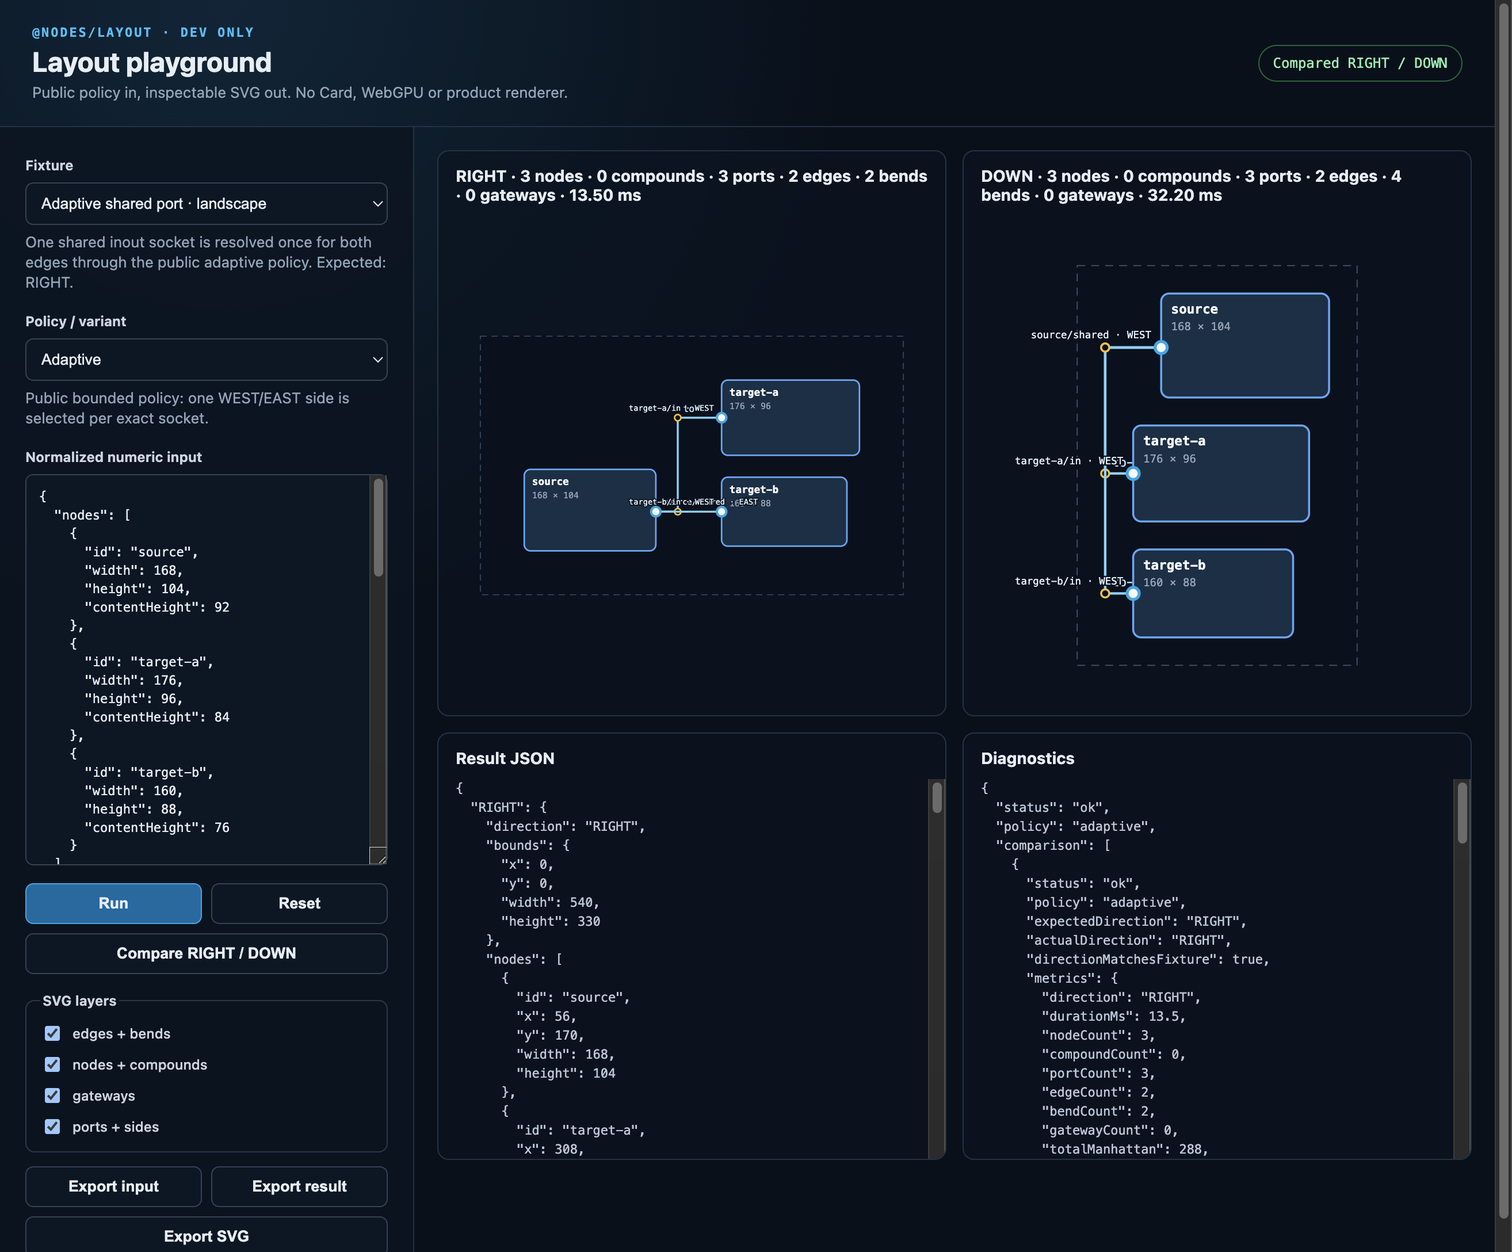
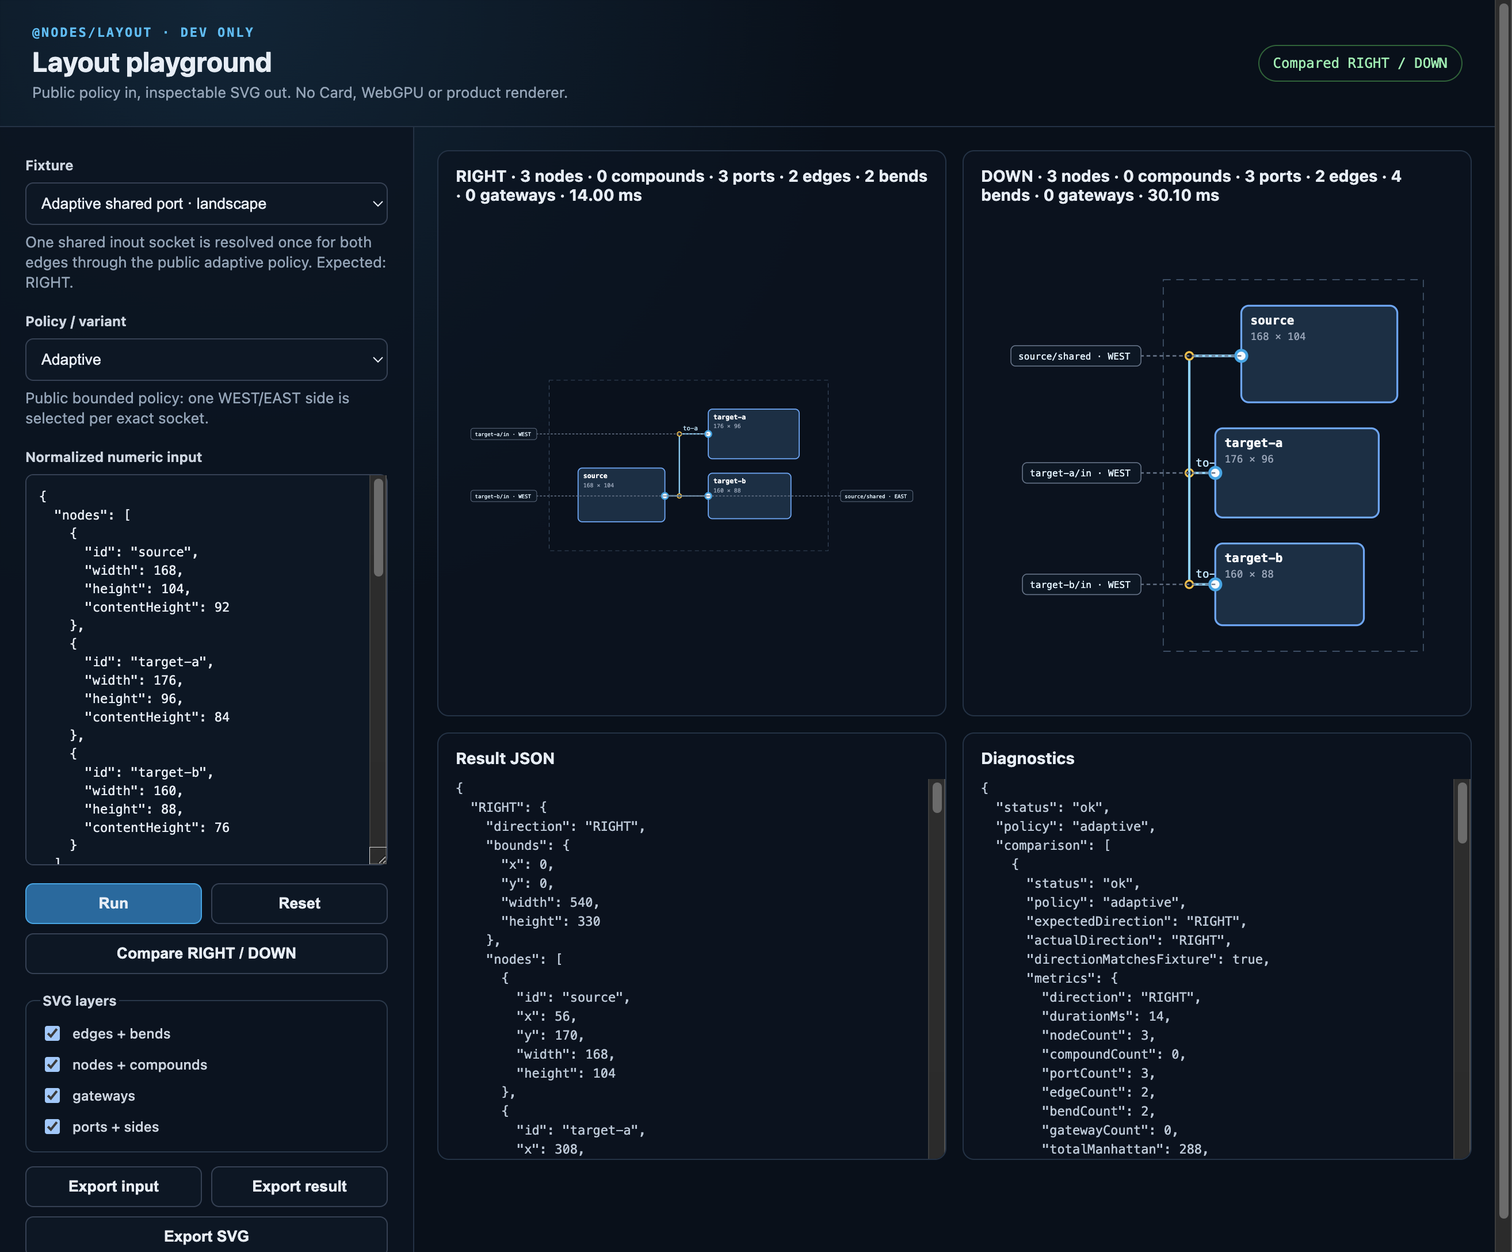
fix(nodes): make playground port labels inspectable

Changed region(s): [[0.6865, 0.2188, 0.9361, 0.5312], [0.312, 0.2812, 0.5928, 0.4688]]

diff --git a/pkg/nodes/layout/playground/svg.ts b/pkg/nodes/layout/playground/svg.ts
@@ -6,11 +6,25 @@ import type {
 
 const SVG_MARGIN = 36
 const EPSILON = 0.001
+const PORT_LABEL_CHAR_WIDTH = 6.2
+const PORT_LABEL_GAP = 6
+const PORT_LABEL_GUTTER = 24
+const PORT_LABEL_HEIGHT = 22
+const PORT_LABEL_HORIZONTAL_PADDING = 8
+const PORT_LABEL_MIN_WIDTH = 80
 
 export type PlaygroundGateway = Readonly<{
   edgeId: string
   nodeId: string
   point: LayoutPoint
+}>
+
+export type PlaygroundPortLabel = Readonly<{
+  portId: string
+  side: "WEST" | "EAST"
+  text: string
+  box: Readonly<{x: number; y: number; width: number; height: number}>
+  leader: Readonly<{startPoint: LayoutPoint; endPoint: LayoutPoint}>
 }>
 
 export function renderLayoutSvg(
@@ -29,11 +43,23 @@ export function renderLayoutSvg(
   const ports = [...result.ports].sort(compareById)
   const edges = [...result.edges].sort(compareById)
   const gateways = findGatewayPoints(graph, result)
+  const portLabels = layoutPortLabels(result)
+  const visibleBounds = portLabels.reduce((bounds, {box}) => ({
+    left: Math.min(bounds.left, box.x),
+    top: Math.min(bounds.top, box.y),
+    right: Math.max(bounds.right, box.x + box.width),
+    bottom: Math.max(bounds.bottom, box.y + box.height),
+  }), {
+    left: result.bounds.x,
+    top: result.bounds.y,
+    right: result.bounds.x + result.bounds.width,
+    bottom: result.bounds.y + result.bounds.height,
+  })
   const viewBox = [
-    result.bounds.x - SVG_MARGIN,
-    result.bounds.y - SVG_MARGIN,
-    result.bounds.width + SVG_MARGIN * 2,
-    result.bounds.height + SVG_MARGIN * 2,
+    visibleBounds.left - SVG_MARGIN,
+    visibleBounds.top - SVG_MARGIN,
+    visibleBounds.right - visibleBounds.left + SVG_MARGIN * 2,
+    visibleBounds.bottom - visibleBounds.top + SVG_MARGIN * 2,
   ].map(formatNumber).join(" ")
 
   const edgeMarkup = edges.map((edge) => {
@@ -66,16 +92,19 @@ export function renderLayoutSvg(
     `<rect class="gateway" data-edge-id="${escapeXml(gateway.edgeId)}" data-node-id="${escapeXml(gateway.nodeId)}" x="${formatNumber(gateway.point.x - 5)}" y="${formatNumber(gateway.point.y - 5)}" width="10" height="10"/>`).join("")
 
   const portMarkup = ports.map((port) => {
-    const side = port.side
-    const labelOffset = side === "WEST" ? -10 : 10
-    const anchor = side === "WEST" ? "end" : "start"
     return [
-      `<g class="port" data-port-id="${escapeXml(port.id)}" data-side="${side}">`,
+      `<g class="port" data-port-id="${escapeXml(port.id)}" data-side="${port.side}">`,
       `<circle cx="${formatNumber(port.x)}" cy="${formatNumber(port.y)}" r="6"/>`,
-      `<text x="${formatNumber(port.x + labelOffset)}" y="${formatNumber(port.y - 9)}" text-anchor="${anchor}">${escapeXml(port.id)} · ${side}</text>`,
       "</g>",
     ].join("")
   }).join("")
+  const portLabelMarkup = portLabels.map(({portId, side, text, box, leader}) => [
+    `<g class="port-label" data-kind="port-label" data-label-port-id="${escapeXml(portId)}" data-side="${side}" data-label-x="${formatNumber(box.x)}" data-label-y="${formatNumber(box.y)}" data-label-width="${formatNumber(box.width)}" data-label-height="${formatNumber(box.height)}">`,
+    `<line class="port-label-leader" x1="${formatNumber(leader.startPoint.x)}" y1="${formatNumber(leader.startPoint.y)}" x2="${formatNumber(leader.endPoint.x)}" y2="${formatNumber(leader.endPoint.y)}"/>`,
+    `<rect class="port-label-box" x="${formatNumber(box.x)}" y="${formatNumber(box.y)}" width="${formatNumber(box.width)}" height="${formatNumber(box.height)}" rx="5"/>`,
+    `<text class="port-label-text" x="${formatNumber(box.x + PORT_LABEL_HORIZONTAL_PADDING)}" y="${formatNumber(box.y + 15)}">${escapeXml(text)}</text>`,
+    "</g>",
+  ].join("")).join("")
 
   return [
     `<svg xmlns="http://www.w3.org/2000/svg" role="img" aria-label="${escapeXml(title)}" data-direction="${result.direction}" viewBox="${viewBox}">`,
@@ -83,16 +112,52 @@ export function renderLayoutSvg(
     "<defs>",
     "<marker id=\"arrow\" markerWidth=\"8\" markerHeight=\"8\" refX=\"7\" refY=\"4\" orient=\"auto\" markerUnits=\"strokeWidth\"><path d=\"M0,0 L8,4 L0,8 Z\"/></marker>",
     "<style>",
-    ".bounds{fill:#08111d;stroke:#3f566f;stroke-dasharray:8 6;stroke-width:1}.edge polyline{fill:none;stroke:#7dd3fc;stroke-width:2.5;stroke-linejoin:round;stroke-linecap:round}.edge text{fill:#bae6fd;font:12px ui-monospace,monospace;paint-order:stroke;stroke:#08111d;stroke-width:4}.bend{fill:#08111d;stroke:#fbbf24;stroke-width:2}.gateway{fill:#fb7185;stroke:#fff1f2;stroke-width:1}.node rect{stroke-width:2}.node.compound rect{fill:#162536;fill-opacity:.72;stroke:#64748b;stroke-dasharray:7 4}.node.leaf rect{fill:#172f46;stroke:#60a5fa}.node-id{fill:#f8fafc;font:600 13px ui-monospace,monospace}.node-size{fill:#94a3b8;font:11px ui-monospace,monospace}.port circle{fill:#f8fafc;stroke:#0ea5e9;stroke-width:3}.port text{fill:#e0f2fe;font:10px ui-monospace,monospace;paint-order:stroke;stroke:#08111d;stroke-width:3}",
+    ".bounds{fill:#08111d;stroke:#3f566f;stroke-dasharray:8 6;stroke-width:1}.edge polyline{fill:none;stroke:#7dd3fc;stroke-width:2.5;stroke-linejoin:round;stroke-linecap:round}.edge text{fill:#bae6fd;font:12px ui-monospace,monospace;paint-order:stroke;stroke:#08111d;stroke-width:4}.bend{fill:#08111d;stroke:#fbbf24;stroke-width:2}.gateway{fill:#fb7185;stroke:#fff1f2;stroke-width:1}.node rect{stroke-width:2}.node.compound rect{fill:#162536;fill-opacity:.72;stroke:#64748b;stroke-dasharray:7 4}.node.leaf rect{fill:#172f46;stroke:#60a5fa}.node-id{fill:#f8fafc;font:600 13px ui-monospace,monospace}.node-size{fill:#94a3b8;font:11px ui-monospace,monospace}.port circle{fill:#f8fafc;stroke:#0ea5e9;stroke-width:3}.port-label-leader{stroke:#64748b;stroke-width:1.5;stroke-dasharray:4 3}.port-label-box{fill:#0b1725;stroke:#64748b;stroke-width:1}.port-label-text{fill:#e0f2fe;font:10px ui-monospace,monospace}",
     "</style>",
     "</defs>",
     `<rect class="bounds" data-kind="layout-bounds" x="${formatNumber(result.bounds.x)}" y="${formatNumber(result.bounds.y)}" width="${formatNumber(result.bounds.width)}" height="${formatNumber(result.bounds.height)}"/>`,
     `<g data-layer="edges">${edgeMarkup}</g>`,
     `<g data-layer="nodes">${nodeMarkup}</g>`,
     `<g data-layer="gateways">${gatewayMarkup}</g>`,
-    `<g data-layer="ports">${portMarkup}</g>`,
+    `<g data-layer="ports">${portMarkup}${portLabelMarkup}</g>`,
     "</svg>",
   ].join("")
+}
+
+/** Places debug labels outside route bounds and attaches each with one straight leader. */
+export function layoutPortLabels(result: LayoutResult): readonly PlaygroundPortLabel[] {
+  return (["WEST", "EAST"] as const).flatMap((side) => {
+    const ports = result.ports
+      .filter((port) => port.side === side)
+      .sort((left, right) => left.y - right.y || compareById(left, right))
+    let nextTop = result.bounds.y
+    return ports.map((port): PlaygroundPortLabel => {
+      const text = `${port.id} · ${side}`
+      const width = Math.max(
+        PORT_LABEL_MIN_WIDTH,
+        text.length * PORT_LABEL_CHAR_WIDTH + PORT_LABEL_HORIZONTAL_PADDING * 2,
+      )
+      const y = Math.max(port.y - PORT_LABEL_HEIGHT / 2, nextTop)
+      nextTop = y + PORT_LABEL_HEIGHT + PORT_LABEL_GAP
+      const x = side === "WEST"
+        ? result.bounds.x - PORT_LABEL_GUTTER - width
+        : result.bounds.x + result.bounds.width + PORT_LABEL_GUTTER
+      const box = {x, y, width, height: PORT_LABEL_HEIGHT}
+      return {
+        portId: port.id,
+        side,
+        text,
+        box,
+        leader: {
+          startPoint: {x: port.x, y: port.y},
+          endPoint: {
+            x: side === "WEST" ? box.x + box.width : box.x,
+            y: box.y + box.height / 2,
+          },
+        },
+      }
+    })
+  })
 }
 
 export function findGatewayPoints(graph: LayoutGraph, result: LayoutResult): readonly PlaygroundGateway[] {

diff --git a/pkg/nodes/layout/playground/playground.test.ts b/pkg/nodes/layout/playground/playground.test.ts
@@ -5,6 +5,7 @@ import {fileURLToPath} from "node:url"
 import {getFixtureFamily, PLAYGROUND_FIXTURES} from "./fixtures.ts"
 import {PLAYGROUND_POLICIES} from "./policy-registry.ts"
 import {runPlaygroundLayout} from "./runner.ts"
+import {layoutPortLabels} from "./svg.ts"
 
 const playgroundRoot = fileURLToPath(new URL(".", import.meta.url))
 const layoutRoot = fileURLToPath(new URL("..", import.meta.url))
@@ -14,13 +15,13 @@ const BASELINES = {
     direction: "RIGHT",
     bounds: {x: 0, y: 0, width: 632, height: 446},
[3 lines of base64/hex data omitted]
   },
   "fixed-baseline-down": {
     direction: "DOWN",
     bounds: {x: 0, y: 0, width: 396, height: 830},
[3 lines of base64/hex data omitted]
   },
 } as const
 
@@ -30,14 +31,14 @@ const ADAPTIVE_BASELINES = {
     side: "EAST",
     bounds: {x: 0, y: 0, width: 540, height: 330},
[3 lines of base64/hex data omitted]
   },
   "adaptive-shared-down": {
     direction: "DOWN",
     side: "WEST",
     bounds: {x: 0, y: 0, width: 280, height: 400},
[3 lines of base64/hex data omitted]
   },
 } as const
 
@@ -121,6 +122,41 @@ describe("dev-only nodes layout playground", () => {
     }
   })
 
+  test("places deterministic port labels outside route bounds with exact non-overlapping leaders", () => {
+    for (const fixture of PLAYGROUND_FIXTURES) {
+      const policy = fixture.family === "fixed-baseline" ? "fixed" : "adaptive"
+      const run = runPlaygroundLayout(policy, fixture.graph)
+      const labels = layoutPortLabels(run.result)
+      const repeated = layoutPortLabels(run.result)
+      const portById = new Map(run.result.ports.map((port) => [port.id, port]))
+
+      expect(repeated).toEqual(labels)
+      expect(labels).toHaveLength(run.result.ports.length)
+      expect(run.svg).toContain("data-kind=\"port-label\"")
+      expect(run.svg).toContain("class=\"port-label-leader\"")
+
+      for (const label of labels) {
+        const port = portById.get(label.portId)
+        expect(port).toBeDefined()
+        expect(label.leader.startPoint).toEqual({x: port!.x, y: port!.y})
+        expect(label.leader.endPoint.y).toBe(label.box.y + label.box.height / 2)
+        if (label.side === "WEST") {
+          expect(label.box.x + label.box.width).toBeLessThan(run.result.bounds.x)
+          expect(label.leader.endPoint.x).toBe(label.box.x + label.box.width)
+        } else {
+          expect(label.box.x).toBeGreaterThan(run.result.bounds.x + run.result.bounds.width)
+          expect(label.leader.endPoint.x).toBe(label.box.x)
+        }
+      }
+
+      for (let left = 0; left < labels.length; left += 1) {
+        for (let right = left + 1; right < labels.length; right += 1) {
+          expect(overlaps(labels[left]!.box, labels[right]!.box)).toBeFalse()
+        }
+      }
+    }
+  })
+
   test("keeps all playground sources outside production exports and free of forbidden imports", async () => {
     const packageJson = await Bun.file(join(layoutRoot, "package.json")).json() as {
       exports?: Record<string, unknown>
@@ -183,6 +219,16 @@ function withoutViewport(graph: (typeof PLAYGROUND_FIXTURES)[number]["graph"]): 
 function hash(value: unknown): string {
   const bytes = typeof value === "string" ? value : JSON.stringify(value)
   return new Bun.CryptoHasher("sha256").update(bytes).digest("hex")
+}
+
+function overlaps(
+  left: Readonly<{x: number; y: number; width: number; height: number}>,
+  right: Readonly<{x: number; y: number; width: number; height: number}>,
+): boolean {
+  return left.x < right.x + right.width
+    && left.x + left.width > right.x
+    && left.y < right.y + right.height
+    && left.y + left.height > right.y
 }
 
 async function sourceFiles(root: string): Promise<string[]> {

diff --git a/project/tasks/NODES-010.md b/project/tasks/NODES-010.md
@@ -130,7 +130,7 @@ independent subpath entrypoints внутри `@nodes/layout` и `@nodes/ui`, а 
 | NODES-010.5 | Подключить adaptive через measured и Card adapters | CLOSED |
 | NODES-010.6 | Разделить fixed/adaptive Worker и bundle entrypoints | CLOSED |
 | NODES-010.7 | Перевести существующий Card consumer без изменения поведения | CLOSED |
-| NODES-010.8 | Доказать adapters, performance, playground и package boundary · `/root/nodes_010_8` | IN_PROGRESS |
+| NODES-010.8 | Доказать adapters, performance, playground и package boundary · `/root/nodes_010_8` | REVIEW |
 
 Каждый срез получает отдельный result checkpoint. `.2` и `.3` начинаются после
 `.1`; `.4` зависит от `.2` и playground baseline `.3`; `.5` и `.6` независимо
@@ -317,10 +317,11 @@ lifecycle не менялись. Compile gate закрыт; финальный `
 * Четыре SVG evidence и две browser screenshots показывают actual public
   fixed/adaptive policies в `RIGHT`/`DOWN`. Отдельный dev-only target дал по две
   SVG-панели, status `Compared RIGHT / DOWN`, `canvasCount=0`, без UI errors;
-  console capture — `0` entries. Временная вкладка и server закрыты. Это
-  isolated SVG proof, не WebGPU/Hamiltonian owner acceptance.
-* `bun test pkg/nodes`: `125 pass`, `0 fail`; focused bundle/playground:
-  `12/12`; focused Hamiltonian lifecycle/transition/browser build/host:
+  port labels находятся в collision-free внешних gutters и соединены exact
+  leaders; console capture — `0` entries. Временная вкладка и server закрыты.
+  Это isolated SVG proof, не WebGPU/Hamiltonian owner acceptance.
+* `bun test pkg/nodes`: `126 pass`, `0 fail`; focused bundle/playground:
+  `13/13`; focused Hamiltonian lifecycle/transition/browser build/host:
   `94/94`. Typecheck всех node packages и playground, TypeDoc, canonical root
   `bun run typecheck`, direct root `tsc` и `git diff --check` прошли.
 * Открытый внешний gate полного Hamiltonian suite: `292 pass`, `8 fail`,
@@ -346,6 +347,29 @@ resolved sides, comparison status и отсутствие Canvas/WebGPU подт
 детерминированное collision-free размещение с точной привязкой к port, после
 чего SVG hashes, screenshots, DOM/console evidence и связанные artifacts
 пересобираются. Layout policies, results и benchmark не меняются.
+
+### Correction NODES-010.8
+
+* SVG renderer детерминированно группирует port labels по resolved side и
+  упорядочивает их по `port.y`, затем semantic ID. Opaque boxes располагаются в
+  отдельных WEST/EAST gutters вне layout bounds; один прямой debug leader идёт
+  от exact port center к краю своей box. Этот leader не участвует в routing и
+  не меняет layout input/result.
+* Structural regression на всех четырёх fixtures подтверждает повторяемость,
+  отсутствие пересечения любых label boxes, нахождение boxes вне route bounds
+  и точные начала/окончания leaders. Frozen input/result hashes, benchmark и
+  десять package bundles не изменились; обновились только SVG/browser evidence.
+* Повторная browser-проверка fixed/adaptive `RIGHT`/`DOWN` получила
+  `overlapPairs=[]`, `outsideRouteBounds=true`, `exactLeaders=true` для каждой
+  панели, сохранила adaptive `source/shared EAST/WEST`, status
+  `Compared RIGHT / DOWN`, `canvasCount=0`, без UI errors и console entries.
+  Снимки визуально соответствуют этим данным; временная вкладка и server
+  закрыты, managed contour сохранён.
+* Focused package/bundle/playground: `13 pass`, `0 fail`; полный
+  `bun test pkg/nodes`: `126 pass`, `0 fail`; typecheck `nodes`,
+  `@nodes/layout`, `@nodes/ui`, `@nodes/hud` и playground, а также
+  `git diff --check` прошли. `.8` возвращён в `REVIEW`; ранее записанный внешний
+  full-Hamiltonian artifact gate не расширялся и не изменялся.
 
 ## Поведение процесса
 

diff --git a/project/artifacts/NODES-010/README.md b/project/artifacts/NODES-010/README.md
@@ -77,6 +77,9 @@ bun project/artifacts/NODES-010/bundles.ts
 * Фактическое наблюдение: все четыре SVG созданы actual public policies и
   визуально содержат ожидаемые слои. Fixed result hashes совпали с frozen
   baselines; adaptive shared port выбран `EAST` в `RIGHT` и `WEST` в `DOWN`.
+  Port labels детерминированно упакованы во внешние WEST/EAST gutters: boxes
+  не пересекаются между собой или route bounds, один прямой leader начинается
+  в exact port center и заканчивается на краю собственной box.
 * Чувствительные сведения: отсутствуют.
 
 ```bash
@@ -85,13 +88,14 @@ bun project/artifacts/NODES-010/generate-svg-evidence.ts
 
 | SVG | SHA-256 |
 | --- | --- |
[8 lines of base64/hex data omitted]
 
 Exact input/result/SVG hashes и policy diagnostics находятся в
-`svg-evidence.json`.
+`svg-evidence.json` (SHA-256
[1 lines of base64/hex data omitted]
 
 ## Browser screenshot
 
@@ -100,26 +104,29 @@ Exact input/result/SVG hashes и policy diagnostics находятся в
 * Ожидание: fixed и adaptive comparisons показывают по две читаемые панели
   `RIGHT`/`DOWN`, status `Compared RIGHT / DOWN`, без WebGPU/HUD.
 * Фактическое наблюдение: ожидание совпало. В отдельном target
-  `BFDB6F506DDAC6CC39E023C667A9E8F2` обе fixed и adaptive matrices показали
+  `98AB06197DFBB65604CA247A37CFBB2C` обе fixed и adaptive matrices показали
   `Compared RIGHT / DOWN`; по две SVG-панели были видимы, `canvasCount=0`,
   UI errors отсутствовали. Adaptive DOM evidence подтвердило
-  `source/shared: EAST` в `RIGHT` и `WEST` в `DOWN`. Console capture за
-  `1500 ms`: `0` entries.
+  `source/shared: EAST` в `RIGHT` и `WEST` в `DOWN`. Fixed и adaptive DOM
+  evidence для каждой панели дали `overlapPairs=[]`,
+  `outsideRouteBounds=true`, `exactLeaders=true`. Console capture за `1500 ms`:
+  `0` entries.
 * Чувствительные сведения: отсутствуют.
 
 | Screenshot | Размер | SHA-256 |
 | --- | ---: | --- |
[4 lines of base64/hex data omitted]
 
-Machine-readable browser results находятся в `browser-dom-evidence.json` и
+Machine-readable fixed/adaptive browser results находятся в
+`browser-fixed-dom-evidence.json`, `browser-dom-evidence.json` и
 `browser-console.json`. Временная вкладка закрыта, dev-only server остановлен;
 исходный CDP target `44D16B99D13C1A8B35F293D86AEFE0D5` сохранён.
 
 ## Verification gate
 
-* `bun test pkg/nodes`: `125 pass`, `0 fail`.
-* Focused package/bundle/playground: `12 pass`, `0 fail`.
+* `bun test pkg/nodes`: `126 pass`, `0 fail`.
+* Focused package/bundle/playground: `13 pass`, `0 fail`.
 * Focused Hamiltonian Card migration/build/host: `94 pass`, `0 fail`.
 * Typecheck `nodes`, `@nodes/layout`, `@nodes/ui`, `@nodes/hud`, playground,
   canonical root `bun run typecheck` и direct root `tsc`: PASS.

diff --git a/pkg/nodes/REQUIREMENTS.md b/pkg/nodes/REQUIREMENTS.md
@@ -82,3 +82,7 @@
    sides, nodes/compounds, edges/bends/gateways, bounds и policy diagnostics для
    `RIGHT`/`DOWN`. Его SVG и browser screenshot доказывают только этот
    изолированный путь и не являются WebGPU или product acceptance.
+4. Debug label каждого port располагается детерминированно вне route bounds и
+   соединяется одним прямым leader с exact port center. Label boxes не
+   пересекаются между собой или semantic routes; leader не является layout
+   route и не меняет policy input/result geometry.
